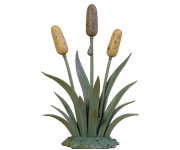
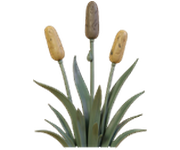
Hang the marsh sky on the new cloud sprites.
The repeated clay clouds leave the chapter 3 road. Stratus, rain, torn, and the moon drift in the open sky, the fog wisps sit lower, and the two shore banks stay. The reeds lose their turf base, and the frog cutaway keeps its silt.

Changed region(s): [[0.1667, 0.0, 0.8333, 1.0], [0.7222, 0.3467, 0.75, 0.3733]]

diff --git a/Postman/Scene/WorldScene.swift b/Postman/Scene/WorldScene.swift
@@ -204,51 +204,60 @@ final class WorldScene: SKScene, UIGestureRecognizerDelegate {
     private var marshSkyTime: Double = 0
     private var marshSkySpan: CGFloat = 0
 
-    /// Небо главы 3 ждёт файлы в Chapter3/sky: cloud_*.png, fog_*.png, bird_*.png.
-    /// Пока папка пустая, ничего не рисуется. Облака и клочья тумана медленно плывут, птицы пересекают кадр.
+    /// Небо главы 3: Chapter3/sky. Облака висят в открытой полосе над грядами,
+    /// клочья тумана — ниже, над полями. Птиц и puff пока нет: файл с префиксом bird_ подхватится сам.
     private func installMarshSky() {
-        let dir = WorldConfigLoader.assetsRoot.appendingPathComponent("Chapter3/sky", isDirectory: true)
-        let names = ((try? FileManager.default.contentsOfDirectory(atPath: dir.path)) ?? [])
-            .filter { $0.lowercased().hasSuffix(".png") }
-            .sorted()
-        func stems(_ prefix: String) -> [String] {
-            names.filter { $0.lowercased().hasPrefix(prefix) }
-                .map { "Chapter3/sky/\(($0 as NSString).deletingPathExtension)" }
-        }
-        let clouds = stems("cloud")
-        let fogs = stems("fog")
-        let birds = stems("bird")
-        guard !clouds.isEmpty || !fogs.isEmpty || !birds.isEmpty else { return }
-        let span = CGFloat(config.game.designWidth) * 4
-        marshSkySpan = span
-        func plane(_ stems: [String], parallax: Double, speed: CGFloat, heights: ClosedRange<CGFloat>,
-                   yRange: ClosedRange<CGFloat>, alpha: CGFloat) {
-            guard !stems.isEmpty else { return }
-            let layer = SKNode()
-            layer.zPosition = parallax < 0.1 ? -720 : -680
-            addLayer(layer, parallax: parallax)
-            marshSkyNodes.append(layer)
-            let count = max(4, stems.count * 2)
-            for i in 0..<count {
-                let path = stems[i % stems.count]
-                guard FileManager.default.fileExists(atPath: TextureStore.url(for: path).path) else { continue }
-                let tex = TextureStore.shared.texture(path)
-                let node = SKSpriteNode(texture: tex)
-                let h = heights.lowerBound + (heights.upperBound - heights.lowerBound) * CGFloat(i % 5) / 4
-                let aspect = tex.size().width / max(1, tex.size().height)
-                node.size = CGSize(width: h * aspect, height: h)
-                node.anchorPoint = CGPoint(x: 0.5, y: 0.5)
-                node.alpha = alpha
-                node.position.y = yRange.lowerBound + (yRange.upperBound - yRange.lowerBound) * CGFloat((i * 3) % 5) / 4
-                if i % 2 == 0 { node.xScale = -1 }
-                layer.addChild(node)
-                marshDrift.append(MarshDrift(node: node, speed: speed * (0.7 + CGFloat(i % 3) * 0.2),
-                                             base: span * CGFloat(i) / CGFloat(count), parallax: CGFloat(parallax)))
-            }
-        }
         let H = CGFloat(config.game.designHeight)
-        plane(clouds, parallax: 0.06, speed: 12, heights: 140...280, yRange: (H * 0.62)...(H * 0.86), alpha: 0.9)
-        plane(fogs, parallax: 0.12, speed: 6, heights: 80...140, yRange: (H * 0.48)...(H * 0.62), alpha: 0.4)
+        // y — низ сцены. fromTop: верёвка у верхнего края кадра. Иначе y — центр.
+        let pieces: [(file: String, height: CGFloat, y: CGFloat, parallax: CGFloat, speed: CGFloat,
+                      alpha: CGFloat, z: CGFloat, fromTop: Bool, flip: Bool)] = [
+            ("cloud_stratus", 120, H - 250, 0.04, 7, 1, -760, false, false),
+            ("cloud_moon", 520, H + 16, 0.07, 10, 1, -740, true, false),
+            ("cloud_torn", 250, H - 24, 0.06, 12, 1, -730, true, false),
+            ("fog_wisp", 96, H - 1120, 0.16, 6, 0.72, -450, false, false),
+            ("cloud_rain", 310, H - 12, 0.08, 9, 1, -735, true, false),
+            ("cloud_stratus", 88, H - 150, 0.05, 8, 1, -755, false, true),
+            ("cloud_moon", 390, H - 8, 0.07, 11, 1, -738, true, true),
+            ("fog_wisp", 112, H - 1200, 0.18, 5, 0.62, -450, false, true),
+            ("cloud_torn", 200, H - 70, 0.06, 13, 1, -728, true, true),
+            ("cloud_rain", 250, H - 40, 0.08, 10, 1, -732, true, true),
+            ("fog_wisp", 80, H - 1040, 0.15, 7, 0.7, -450, false, false),
+        ]
+        let span = CGFloat(config.game.designWidth) * 6
+        marshSkySpan = span
+        var layers: [CGFloat: SKNode] = [:]
+        for (i, piece) in pieces.enumerated() {
+            let path = "Chapter3/sky/\(piece.file)"
+            guard FileManager.default.fileExists(atPath: TextureStore.url(for: path).path) else { continue }
+            let layer: SKNode
+            if let existing = layers[piece.z] {
+                layer = existing
+            } else {
+                let node = SKNode()
+                node.zPosition = piece.z
+                // Слой едет с камерой. Сдвиг каждого спрайта считается отдельно.
+                addLayer(node, parallax: 0)
+                marshSkyNodes.append(node)
+                layers[piece.z] = node
+                layer = node
+            }
+            let tex = TextureStore.shared.texture(path)
+            let node = SKSpriteNode(texture: tex)
+            let aspect = tex.size().width / max(1, tex.size().height)
+            node.size = CGSize(width: piece.height * aspect, height: piece.height)
+            node.anchorPoint = piece.fromTop ? CGPoint(x: 0.5, y: 1) : CGPoint(x: 0.5, y: 0.5)
+            node.alpha = piece.alpha
+            node.position.y = piece.y
+            if piece.flip { node.xScale = -1 }
+            layer.addChild(node)
+            marshDrift.append(MarshDrift(node: node, speed: piece.speed,
+                                         base: span * CGFloat(i) / CGFloat(pieces.count),
+                                         parallax: piece.parallax))
+        }
+        let birdNames = ((try? FileManager.default.contentsOfDirectory(
+            atPath: WorldConfigLoader.assetsRoot.appendingPathComponent("Chapter3/sky", isDirectory: true).path
+        )) ?? []).filter { $0.lowercased().hasPrefix("bird") && $0.lowercased().hasSuffix(".png") }.sorted()
+        let birds = birdNames.map { "Chapter3/sky/\(($0 as NSString).deletingPathExtension)" }
         if !birds.isEmpty {
             let layer = SKNode()
             layer.zPosition = -660
@@ -273,7 +282,8 @@ final class WorldScene: SKScene, UIGestureRecognizerDelegate {
             let localCam = camX * item.parallax
             let u = base - localCam + span / 2
             let rel = u - span * floor(u / span) - span / 2
-            item.node.position.x = (localCam + rel).rounded()
+            // Родитель уже едет с камерой (параллакс 0), поэтому здесь только сдвиг по экрану.
+            item.node.position.x = rel.rounded()
         }
         guard let layer = marshBirdLayer, !marshBirdTextures.isEmpty else { return }
         marshBirdClock -= dt

diff --git a/tools/render_chapter3_world_preview.py b/tools/render_chapter3_world_preview.py
@@ -39,6 +39,45 @@ def paste(canvas, image, left, top):
     canvas.alpha_composite(image, (x, y))
 
 
+# Те же размеры, что installMarshSky: y от низа кадра. from_top — верёвка у верхнего края.
+SKY = [
+    ("cloud_stratus", 120, -250, 0.04, 1.0, False, False, "cloud"),
+    ("cloud_moon", 520, 16, 0.07, 1.0, True, False, "cloud"),
+    ("cloud_torn", 250, -24, 0.06, 1.0, True, False, "cloud"),
+    ("fog_wisp", 96, -1120, 0.16, 0.72, False, False, "fog"),
+    ("cloud_rain", 310, -12, 0.08, 1.0, True, False, "cloud"),
+    ("cloud_stratus", 88, -150, 0.05, 1.0, False, True, "cloud"),
+    ("cloud_moon", 390, -8, 0.07, 1.0, True, True, "cloud"),
+    ("fog_wisp", 112, -1200, 0.18, 0.62, False, True, "fog"),
+    ("cloud_torn", 200, -70, 0.06, 1.0, True, True, "cloud"),
+    ("cloud_rain", 250, -40, 0.08, 1.0, True, True, "cloud"),
+    ("fog_wisp", 80, -1040, 0.15, 0.7, False, False, "fog"),
+]
+SKY_SPAN = W * 6
+
+
+def draw_sky_decor(canvas, cam, kind):
+    import math
+    for i, (name, height, y_off, parallax, alpha, from_top, flip, group) in enumerate(SKY):
+        if group != kind:
+            continue
+        image = Image.open(ASSETS / "Chapter3/sky" / f"{name}.png").convert("RGBA")
+        width = height * image.size[0] / image.size[1]
+        scaled = image.resize((max(1, int(width)), max(1, int(height))), Image.Resampling.LANCZOS)
+        if flip:
+            scaled = scaled.transpose(Image.FLIP_LEFT_RIGHT)
+        if alpha < 1:
+            scaled.putalpha(scaled.getchannel("A").point(lambda v, a=alpha: int(v * a)))
+        base = SKY_SPAN * i / len(SKY)
+        u = base - cam * parallax + SKY_SPAN / 2
+        rel = u - SKY_SPAN * math.floor(u / SKY_SPAN) - SKY_SPAN / 2
+        left = W / 2 + rel - scaled.size[0] / 2
+        top = -y_off if from_top else -y_off - height / 2
+        if left > W or left + scaled.size[0] < 0:
+            continue
+        paste(canvas, scaled, left, top)
+
+
 def sky(canvas):
     top = tuple(int(chapter["sky"]["topColor"][i:i + 2], 16) for i in (1, 3, 5))
     bot = tuple(int(chapter["sky"]["bottomColor"][i:i + 2], 16) for i in (1, 3, 5))
@@ -81,7 +120,9 @@ def main():
         canvas = Image.new("RGBA", (W, H), (0, 0, 0, 255))
         sky(canvas)
         cam = camera_x(step)
+        draw_sky_decor(canvas, cam, "cloud")
         tile_strip(canvas, far["image"], far["top"], far["height"], far["parallax"], cam)
+        draw_sky_decor(canvas, cam, "fog")
         tile_strip(canvas, mid["image"], mid["top"], mid["height"], mid["parallax"], cam)
         ug = chapter["underground"]
         tile_h = ug["tilePixelSize"][1] * ug["scale"]

diff --git a/tools/check_chapter3.py b/tools/check_chapter3.py
@@ -160,6 +160,13 @@ if [m["step"] for m in modules] != [800, 2500, 4000, 6500, 9000, 11500, 14000, 1
 for module in modules:
     if not (chapter_dir / (module["image"] + ".png")).exists():
         fail(f"missing underground module {module['image']}")
+if any("el_cloud_" in p["image"] for p in chapter["props"]):
+    fail("chapter 3 still repeats the hanging clay clouds")
+if sum(1 for p in chapter["props"] if p["image"] == "places/el_fog_bank") != 2:
+    fail("chapter 3 shore fog should stay as the two low banks")
+for name in ("cloud_stratus", "cloud_rain", "cloud_torn", "cloud_moon", "fog_wisp"):
+    if not (chapter_dir / "sky" / f"{name}.png").exists():
+        fail(f"missing sky sprite {name}")
 expected_art = {
     "road/road_main_alder.png": (2400, 680),
     "places/bg_far_ridges_tile.png": (2636, 1236),
